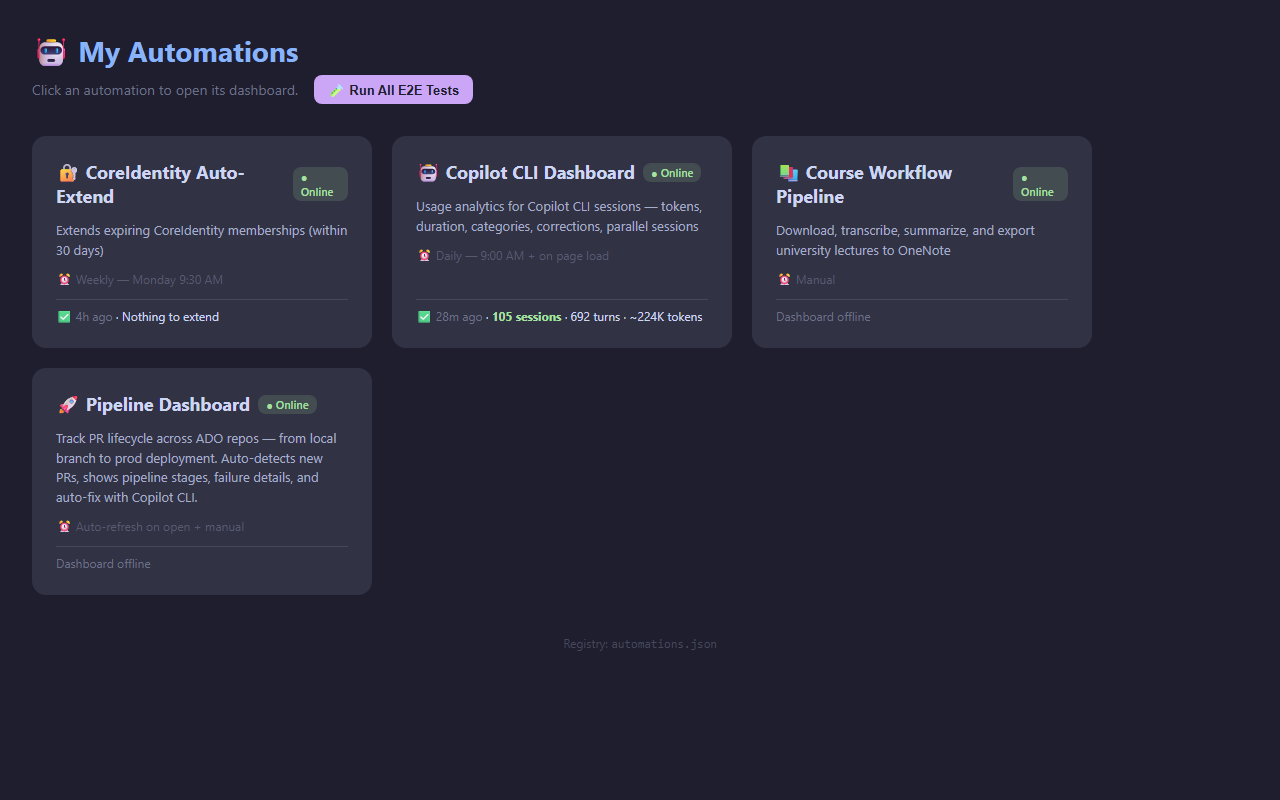
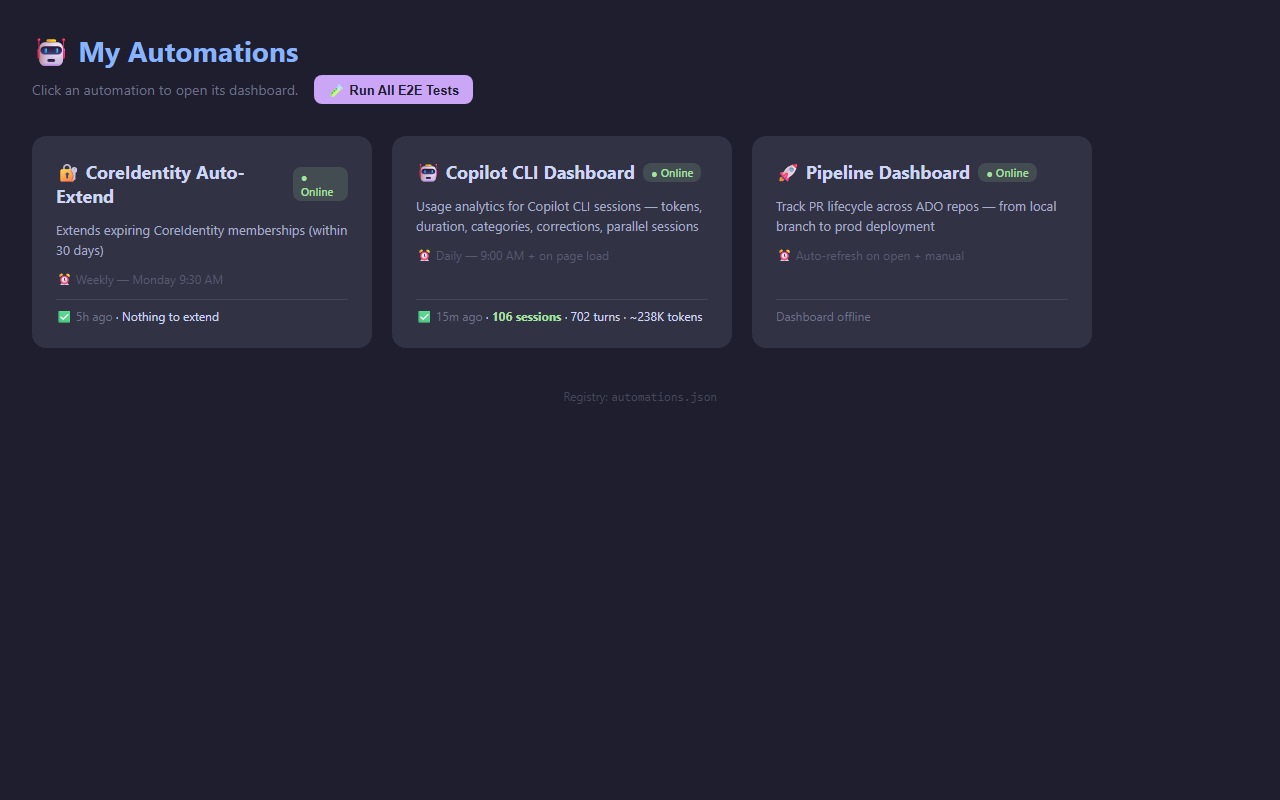
fix: Remove course workflow from hub screenshot, update README tone
- Retake hub screenshot without course workflow reference
- Emphasize sharing-first: everyone welcome to download and customize
- Add Fork & Customize guidance
- Soften contribution section (sharing > gatekeeping)

diff --git a/README.md b/README.md
@@ -2,7 +2,7 @@
 
 A collection of local desktop automation tools for Microsoft employees. Each tool runs as a lightweight Python HTTP server with a browser-based dashboard.
 
-> **Owner**: [orenMicrosoft](https://github.com/orenMicrosoft) · Contributions welcome via PR (approved by owner only)
+> **Built by**: [orenMicrosoft](https://github.com/orenMicrosoft) · Shared for everyone at Microsoft to use and customize
 
 ---
 
@@ -144,8 +144,11 @@ Register-ScheduledTask -TaskName "CoreIdentity-AutoExtend" `
 
 ---
 
-## How to Consume
+## How to Use These Automations
 
+These tools are **shared for everyone** — you're welcome to download and use any of them for your personal workflow.
+
+### Option 1: Clone & Use As-Is
 1. **Clone** this repo to your local machine
 2. **Configure** each automation you want to use (see Configuration above)
 3. **Run** via the hub (`python hub/hub_server.py`) or individually
@@ -153,14 +156,22 @@ Register-ScheduledTask -TaskName "CoreIdentity-AutoExtend" `
 
 Each automation is self-contained in its own directory — you can use any subset.
 
+### Option 2: Fork & Customize
+If you want to adapt an automation for your specific needs:
+1. **Fork** this repo to your own GitHub account
+2. **Customize** the code to fit your workflow (different team keywords, thresholds, repos, etc.)
+3. Keep your fork synced for upstream improvements if you like
+
 ---
 
 ## How to Contribute
 
+Contributions are welcome! This repo is primarily for **sharing** useful automations, but if you have improvements or new automations, feel free to open a PR.
+
 ### Contribution Model
-- This repo is **publicly visible** but contributions require **PR approval from the owner**
-- All PRs must be reviewed and approved before merging
-- Direct pushes to `main` are not allowed (except by the owner)
+- PRs are reviewed and approved by the repo owner before merging
+- A `CODEOWNERS` file ensures all changes get the right review
+- Direct pushes to `main` are not allowed
 
 ### Adding a New Automation
 
